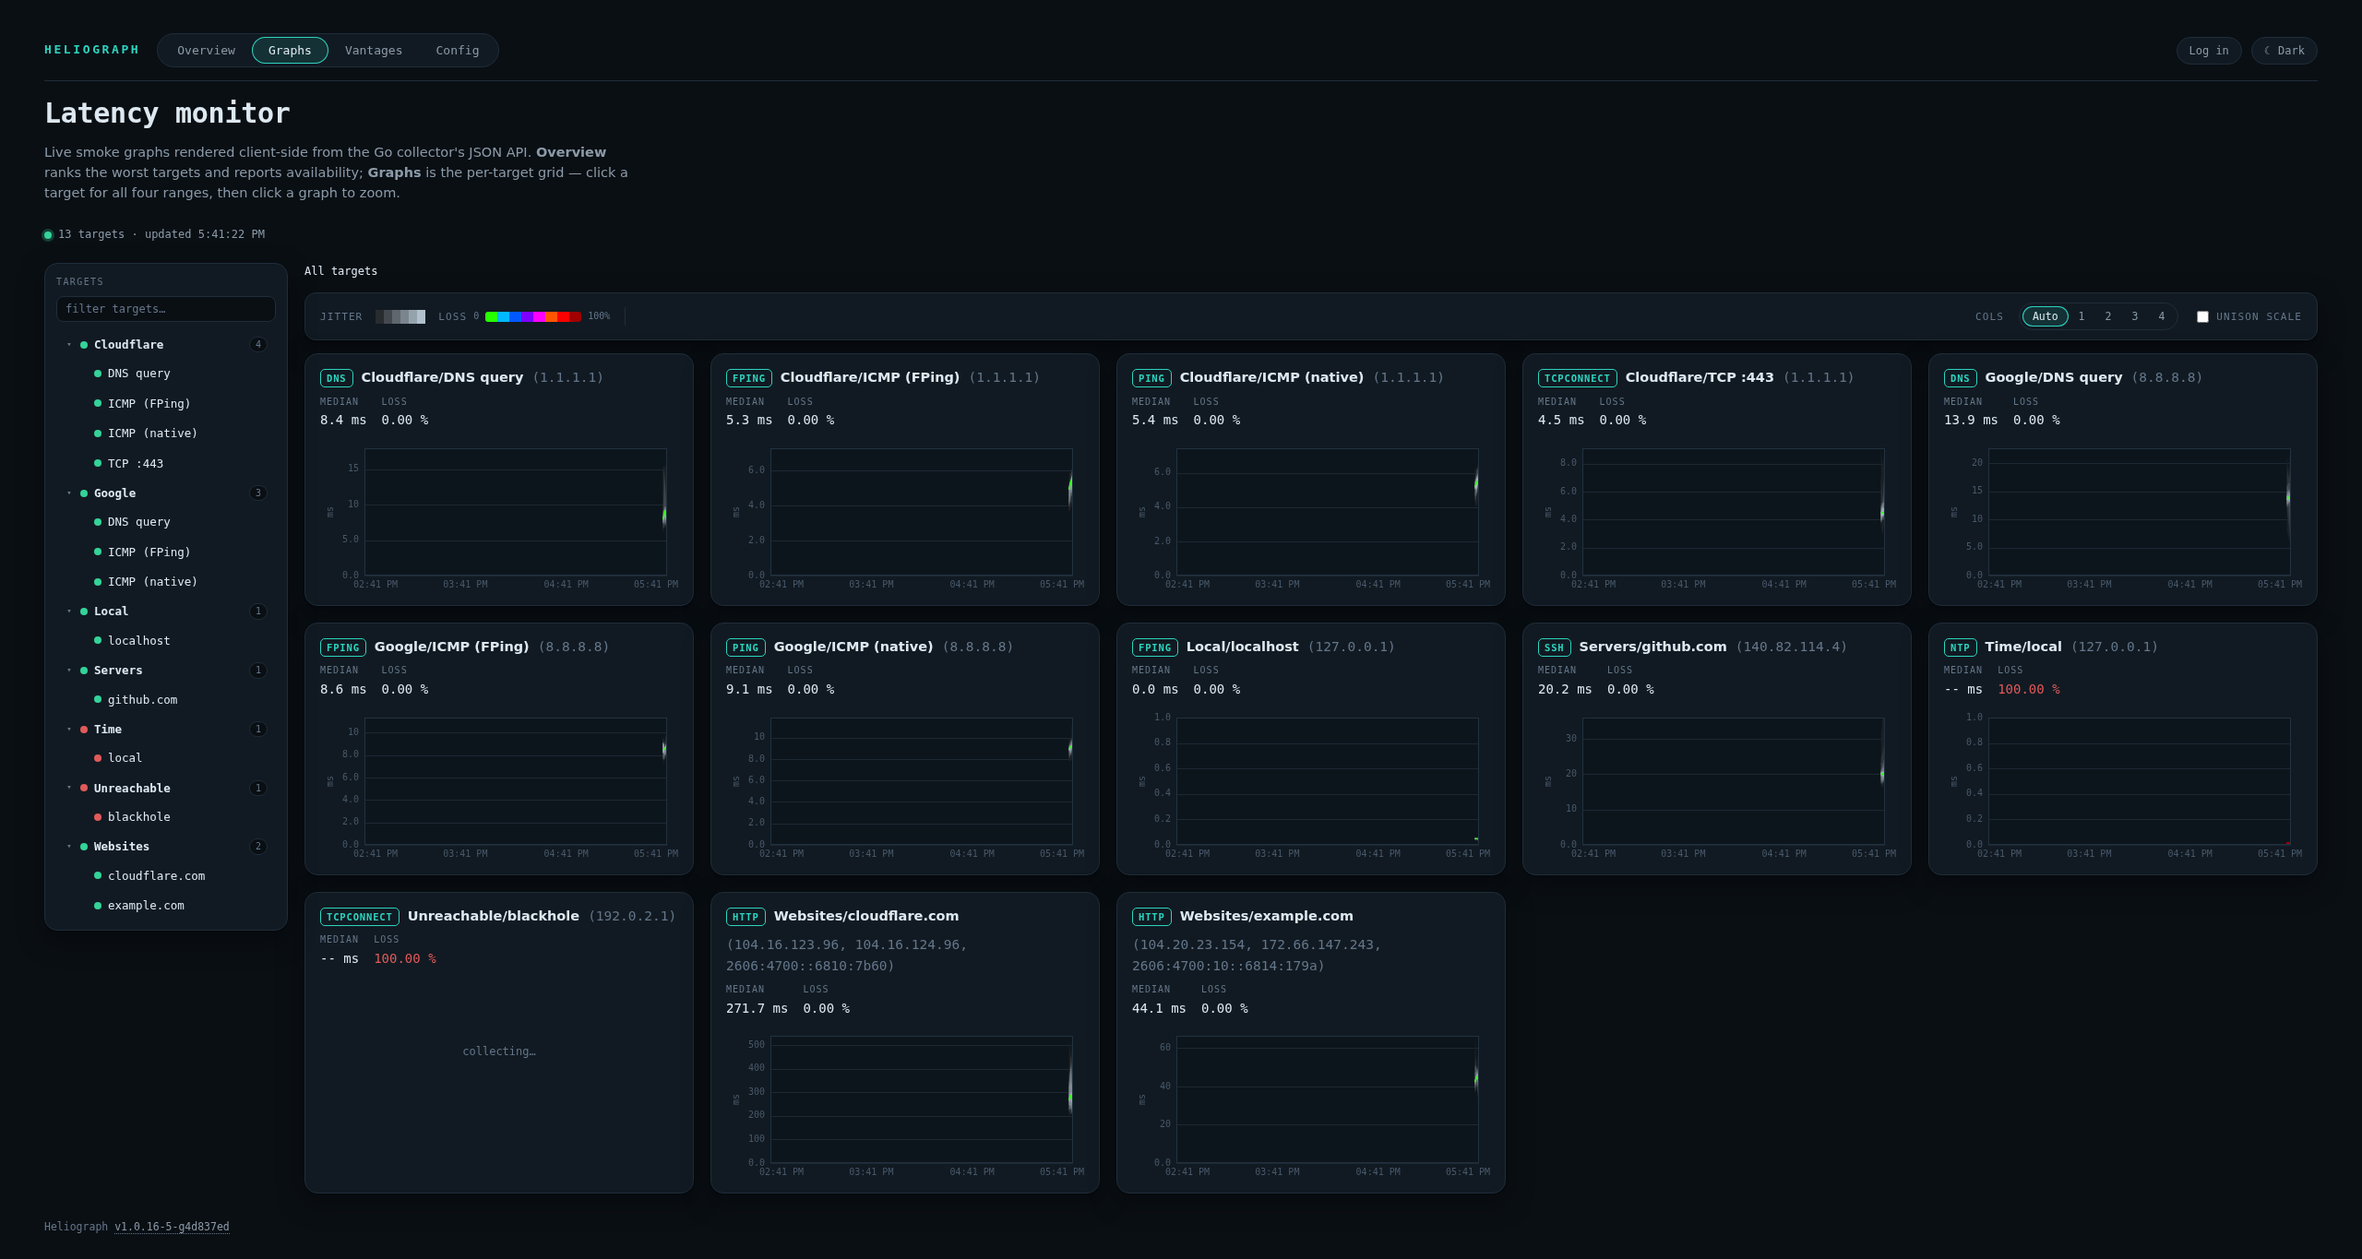
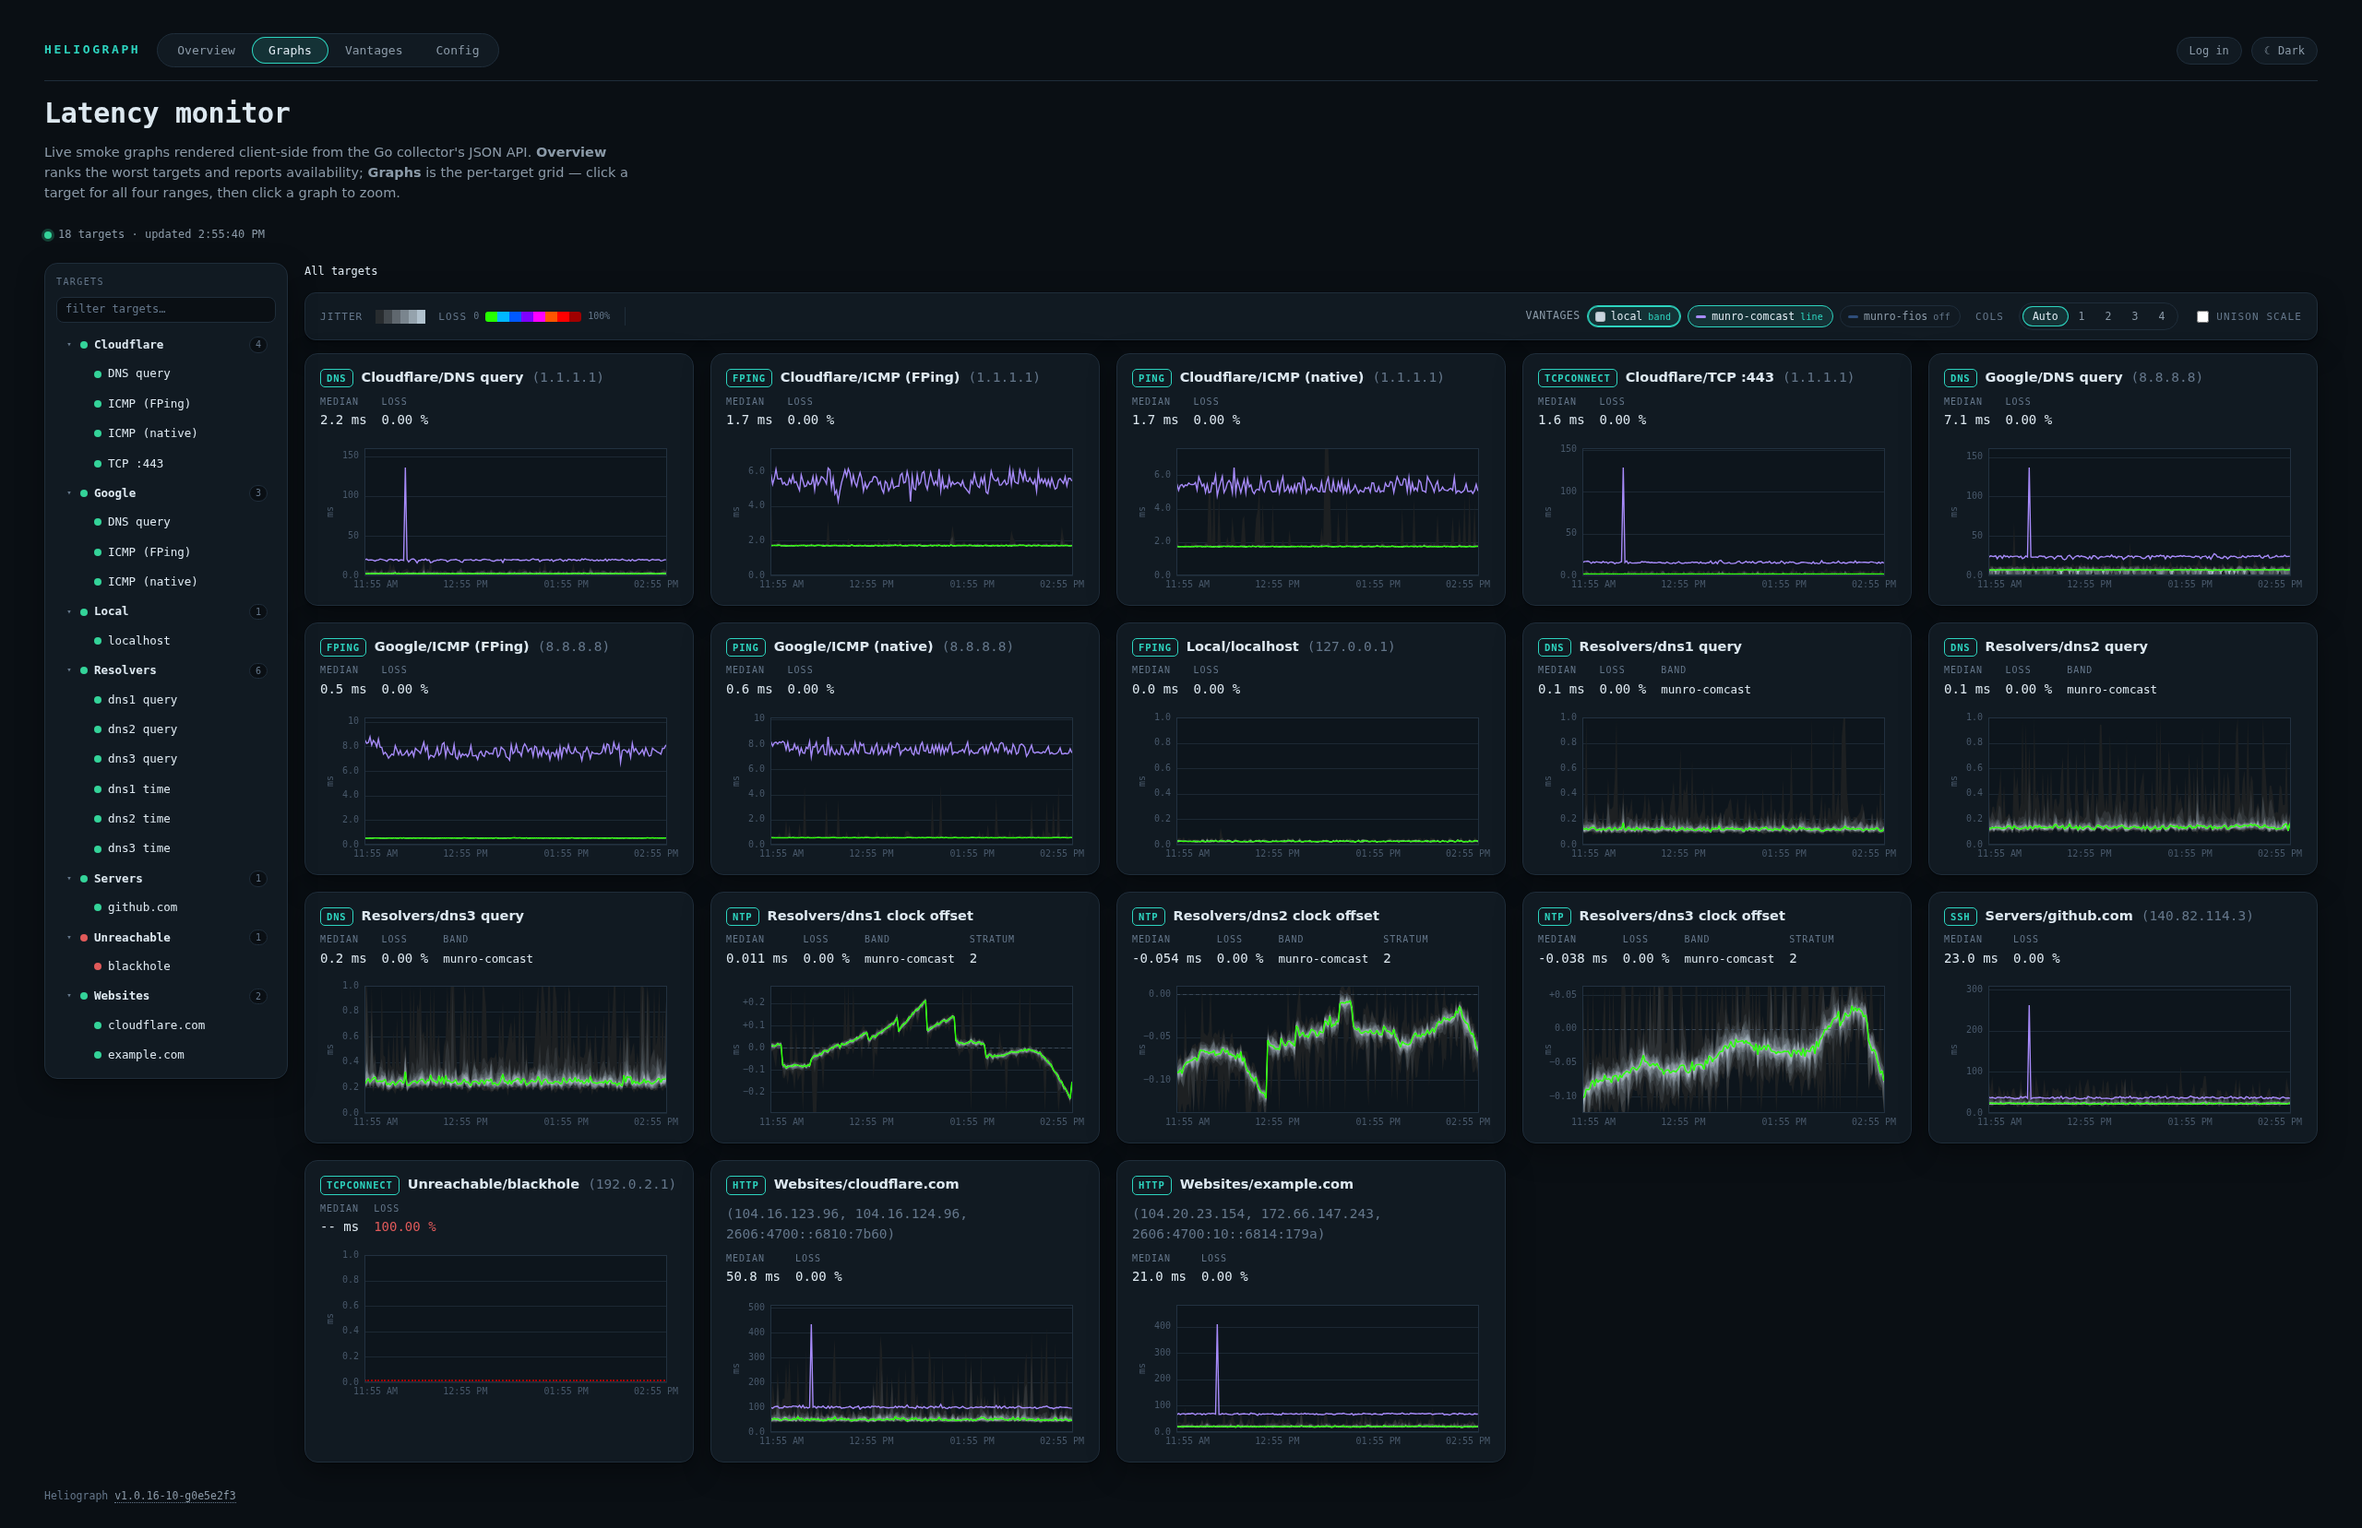
docs(img): refresh screenshots + add federation overlay from live multi-vantage data (#121)
Recapture the four dashboard shots from the live federated hub
(heliograph.bsd-unix.net, v1.0.16-10-g0e5e2f3), now that it carries real
multi-vantage data across three vantages (local, munro-comcast, munro-fios):

- dashboard-overview-dark.png: 18 targets, 24h availability
- dashboard-graphs-dark.png: filled smoke bands + the per-vantage overlay
- config-tree-dark.png: current Resolvers group (DNS query + NTP offset)
- vantages-dark.png: the real mTLS federation vantages

Add federation-overlay-dark.png: one target (github.com) read from the hub and
two remote uplinks (Comcast, FiOS), three median lines each over its own smoke
band — the multi-vantage comparison in one graph. Wire it into the README after
the Graphs grid and document its capture recipe in docs/img/README.md.

diff --git a/docs/img/README.md b/docs/img/README.md
@@ -9,9 +9,15 @@ changes materially, so the README always shows the current default behaviour.
 |------|-----|--------|
 | `dashboard-overview-dark.png` | Overview | any running collector with demo data |
 | `dashboard-graphs-dark.png` | Graphs → All targets | same |
-| `config-tree-dark.png` | Config (admin) | a seeded local instance (below) |
+| `federation-overlay-dark.png` | Graphs → one target, zoomed | a hub with ≥2 live vantages (below) |
+| `config-tree-dark.png` | Config (admin) | a federated hub, or a seeded local instance (below) |
 | `vantages-dark.png` | Vantages (admin) | same |
 | `smoke-graph-dark.png` | — | static demo from `web/smoke-poc.html` (regenerate only if that page changes) |
+
+The current set was captured from the live federated hub (`heliograph.bsd-unix.net`) so the graphs,
+the vantage overlay, and the Vantages table all show real multi-vantage data. The seeded-instance
+recipe below stays the credential-free fallback for the Config/Vantages panels when no federated hub
+is at hand — but the federation overlay itself needs a hub with vantages actually reporting.
 
 ## Overview + Graphs
 
@@ -22,7 +28,20 @@ These need only live demo data, so the public site works:
 3. Full-page screenshot, then crop to the footer's bottom:
    `magick raw.png -crop 2560x<footerBottom+~25>+0+0 +repage docs/img/<name>.png`
 
-## Config + Vantages (admin, seeded local instance)
+## Federation overlay
+
+Needs a hub with **≥2 vantages actively reporting** (so each has real data to overlay); the public
+federated site works. On the Graphs page, turn every vantage on in the **Vantages** control (cycle
+each to `band`/`line`), click one target that all vantages measure (an external host such as
+`Servers/github.com`, whose ISP paths visibly differ), then click a graph to zoom. If a single
+per-round spike blows out the y-axis and compresses the lines together, drag-select a spike-free
+window on the canvas — the y-axis rescales and the per-vantage medians separate into distinct bands.
+Screenshot the viewport and crop to the footer as above.
+
+## Config + Vantages (admin)
+
+Capture these from any admin session — the live federated hub shows the real vantages; otherwise
+seed a throwaway instance:
 
 The Config tree and Vantages table require the admin API, a base `-config`, and DB-backed
 targets, so seed a throwaway instance:

diff --git a/README.md b/README.md
@@ -34,6 +34,12 @@ click a graph to zoom):
 
 ![Heliograph per-target graph grid](docs/img/dashboard-graphs-dark.png)
 
+Every graph can **overlay a median line per federation vantage**, so you read one target from
+several networks at once — here `github.com` from the hub plus two remote uplinks (Comcast and
+FiOS), each vantage a distinct line over its own smoke band:
+
+![Heliograph multi-vantage federation overlay — one target across three uplinks](docs/img/federation-overlay-dark.png)
+
 The **Config** tab edits DB-backed targets as a drag-to-reorder tree (merged live with the YAML
 config); each target keeps a stable, server-managed identity, so moving or renaming it in the tree
 preserves its existing graph rather than starting a new one. The **Vantages** panel manages
